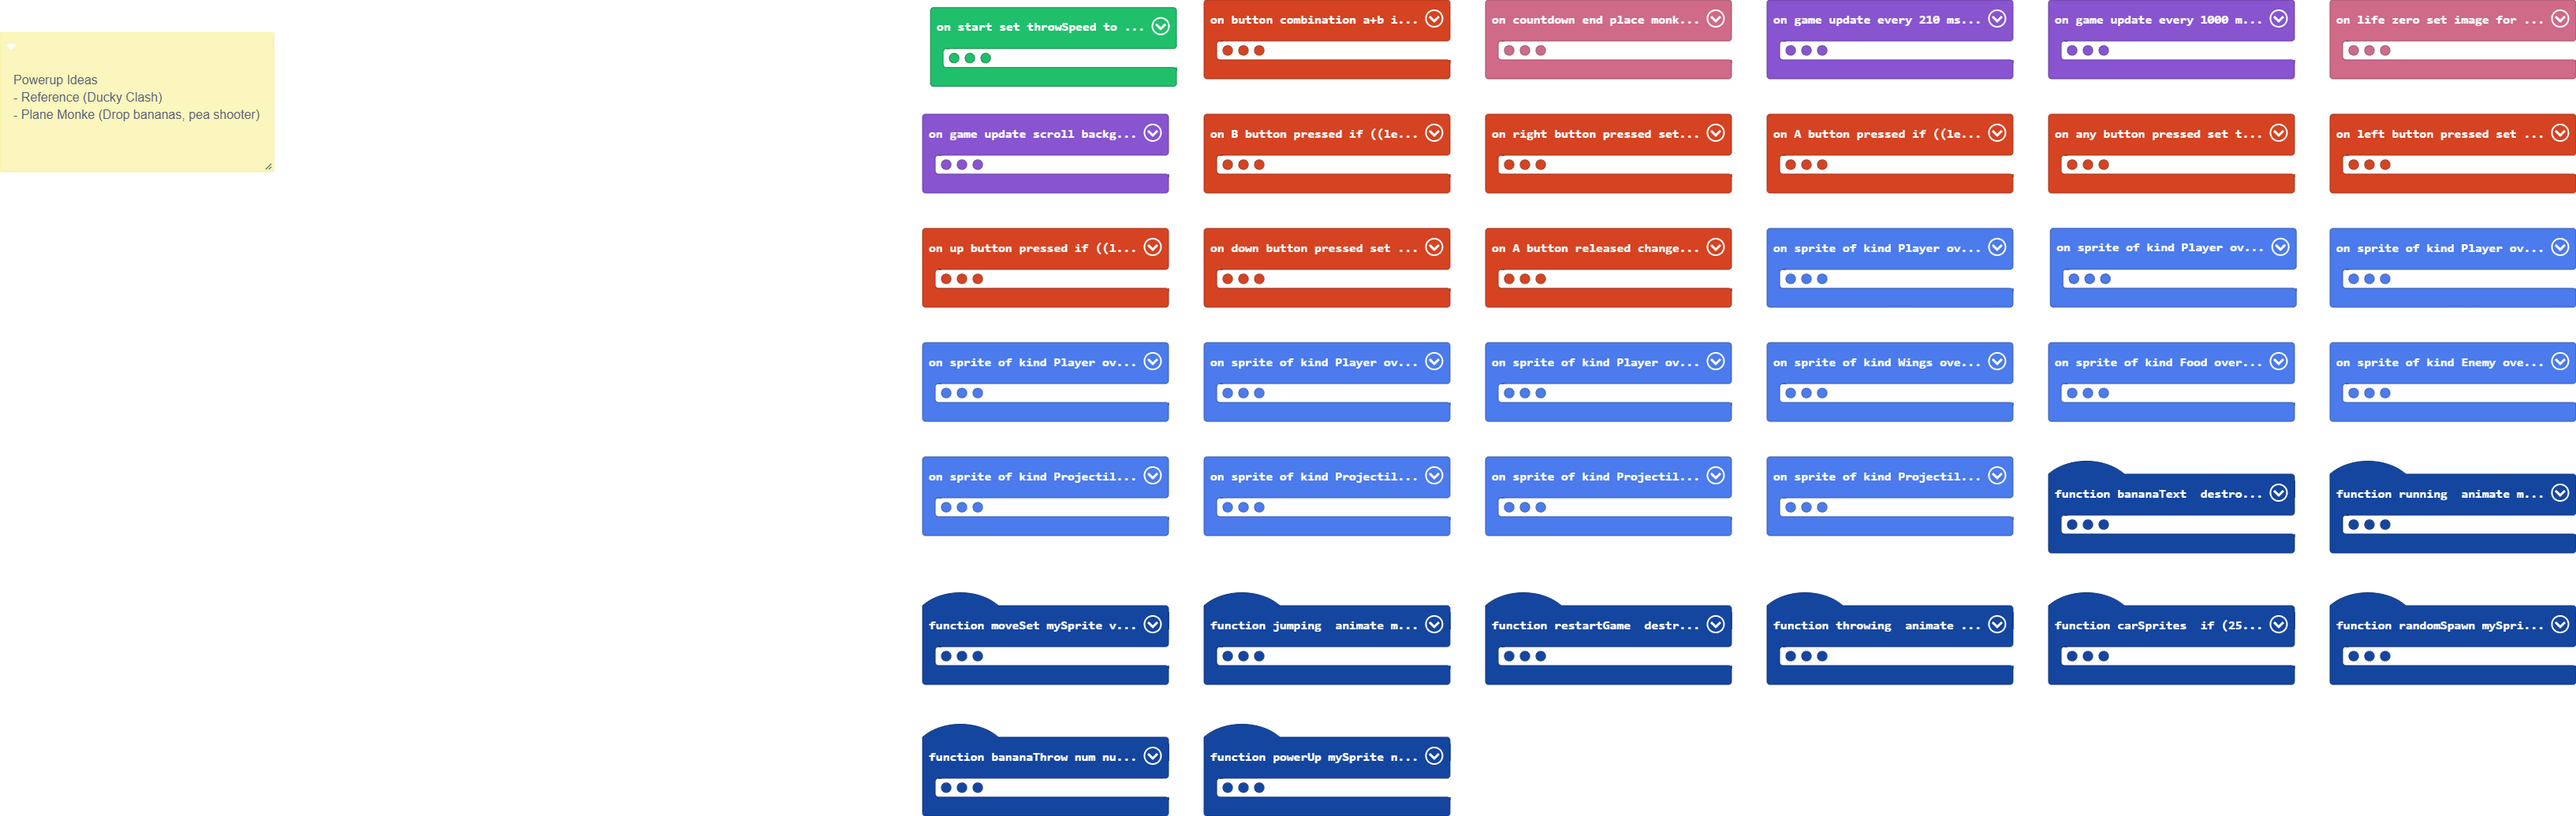
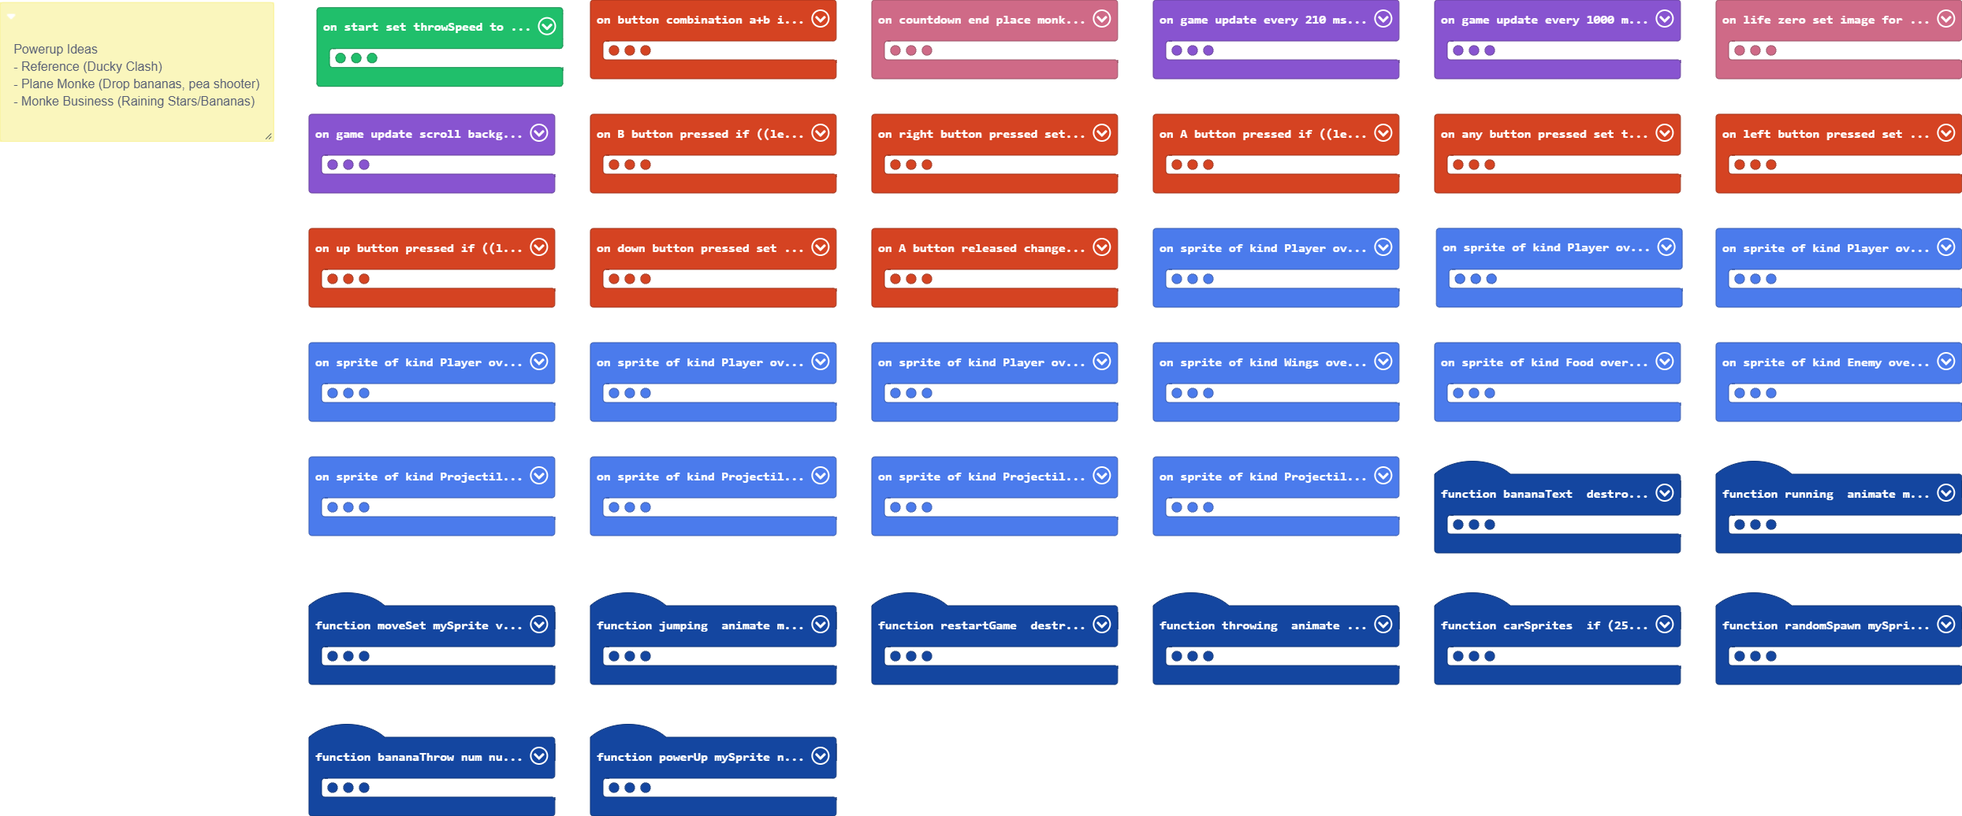
Update main.blocks, main.ts

diff --git a/main.ts b/main.ts
@@ -13,6 +13,8 @@ namespace SpriteKind {
  * - Reference (Ducky Clash)
  * 
  * - Plane Monke (Drop bananas, pea shooter)
+ * 
+ * - Monke Business (Raining Stars/Bananas)
  */
 sprites.onOverlap(SpriteKind.Player, SpriteKind.Enemy, function (sprite, otherSprite) {
     if (power2 == 0) {
